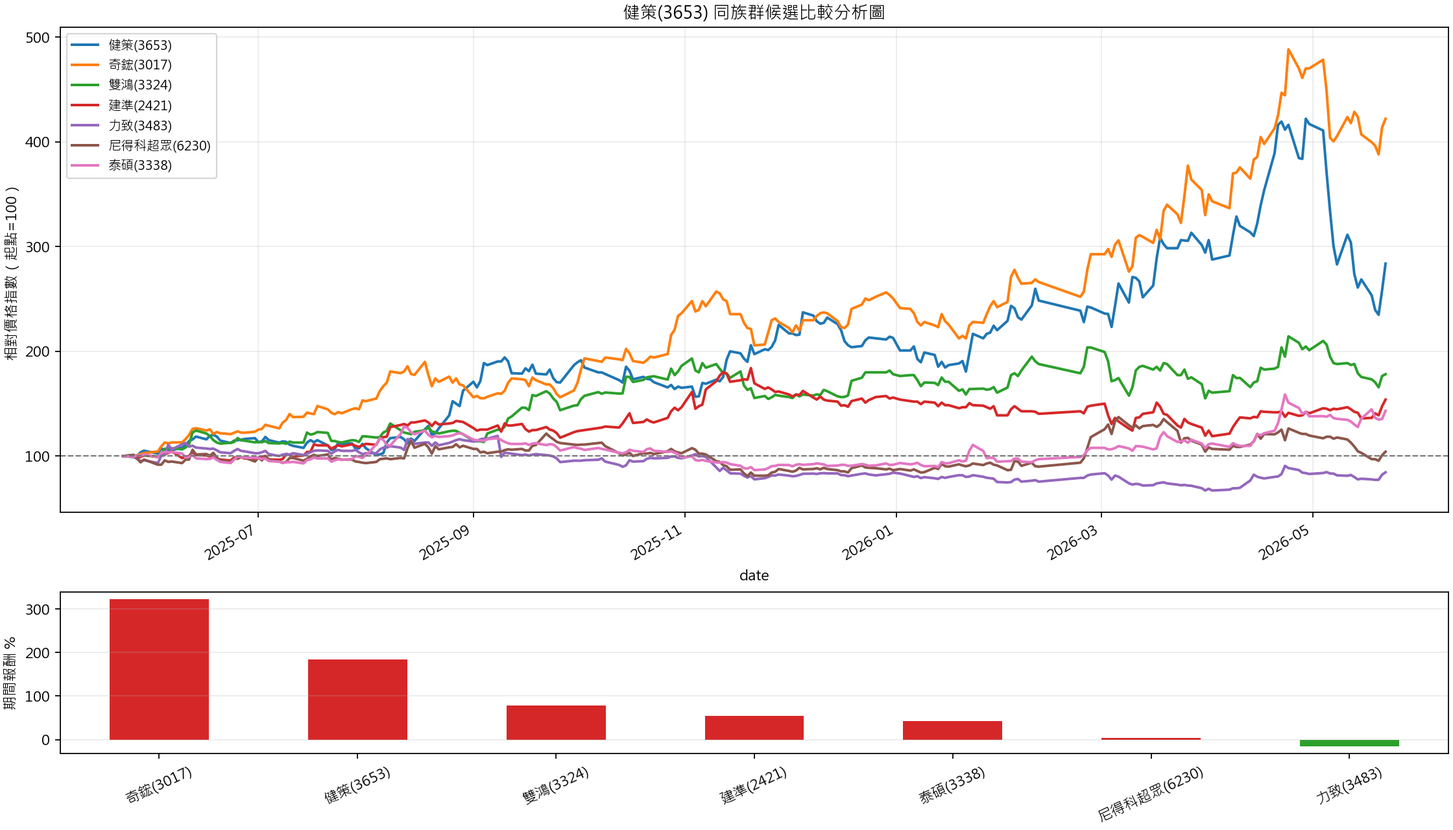
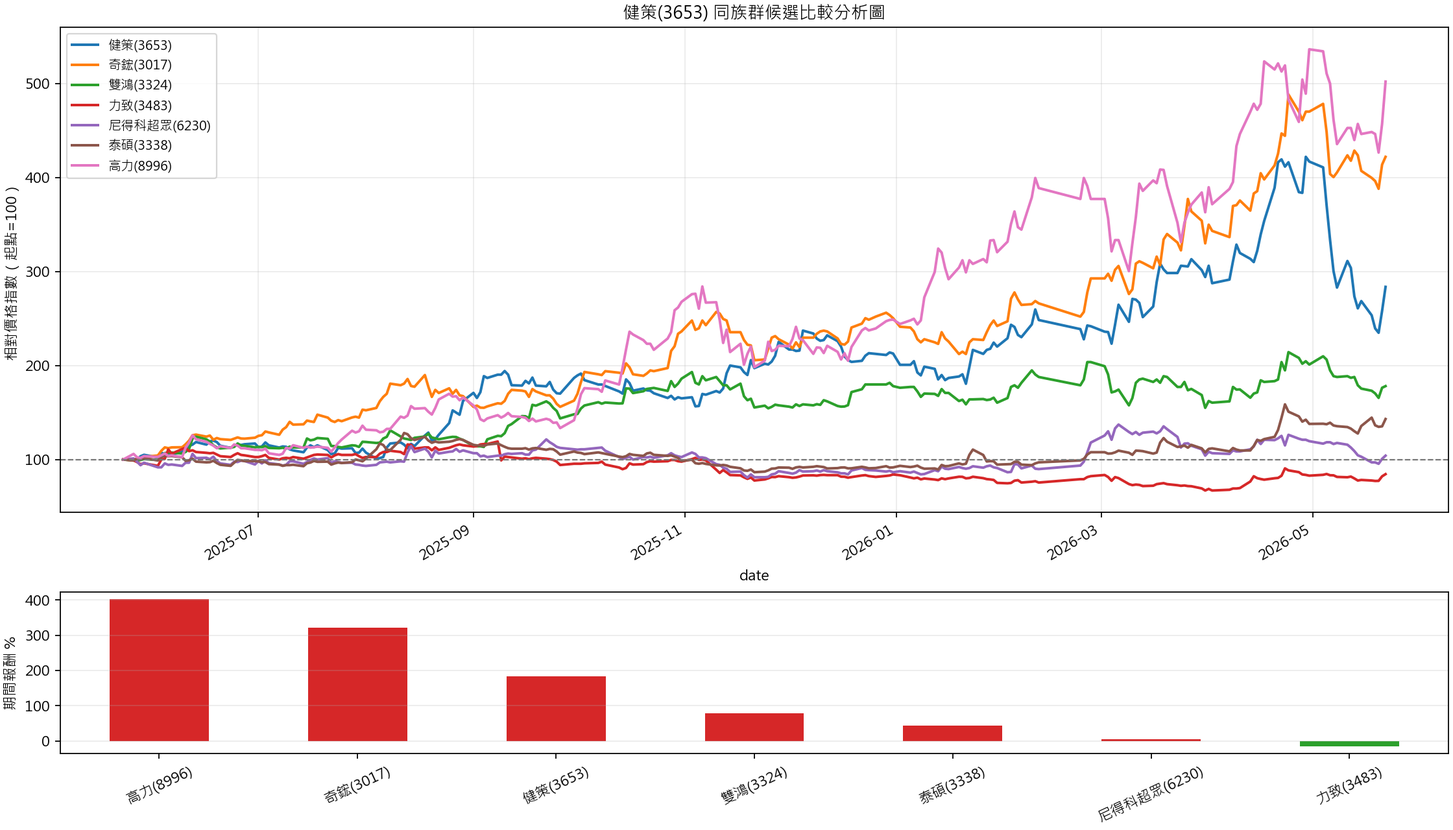
Publish stock report 3653_2026-05-23

diff --git a/3653_2026-05-23/index.html b/3653_2026-05-23/index.html
@@ -92,23 +92,16 @@
 <body>
   <header>
     <h1>健策(3653) 台股技術分析報告</h1>
-    <div>產生時間：2026-05-23T07:52:59+08:00</div>
+    <div>產生時間：2026-05-23T09:34:19+08:00</div>
   </header>
   <main>
     
     <section class="panel conclusion">
       <h2>結論摘要</h2>
       <div class="summary-grid"><div class="summary-card"><span>整體方向</span><strong>中性偏弱；收盤站上 MA5, MA5 低於 MA10, MA10 上方但投信支撐不足</strong></div>
-<div class="summary-card"><span>明日偏向</span><strong>偏多震盪</strong></div>
-<div class="summary-card"><span>一個月情境</span><strong>高波動區間震盪</strong></div>
-<div class="summary-card"><span>關鍵觀察</span><strong>價漲量縮；明日觀察 MA5 3276.00 / MA10 3467.50</strong></div>
+<div class="summary-card"><span>明日觀察</span><strong>價漲量縮；明日觀察 MA5 3276.00 / MA10 3467.50</strong></div>
 <div class="summary-card"><span>支撐</span><strong>第一 3276.00 / 第二 3467.50 / 強 4134.50</strong></div>
-<div class="summary-card"><span>壓力</span><strong>5575.00</strong></div>
-<div class="summary-card"><span>ATR 波動</span><strong>ATR14 349.64，常態區間 3310.36～4009.64</strong></div>
-<div class="summary-card"><span>權證籌碼</span><strong>認購成交占 97.45%，近價外認購 4 檔，前五大成交占 59.36%</strong></div>
-<div class="summary-card"><span>權證看股價</span><strong>現股距認購主流履約價仍有 20.81% 空間，屬高想像但投機風險也高</strong></div>
-<div class="summary-card"><span>權證白話</span><strong>權證人氣偏多但偏投機，只能輔助現股判斷；現股不續強時權證容易快速降溫</strong></div>
-<div class="summary-card"><span>最大風險</span><strong>跌破 MA10 3467.50 且放量，短線轉弱；跌破 MA20 4134.50 則整理擴大</strong></div></div>
+<div class="summary-card"><span>壓力</span><strong>5575.00</strong></div></div>
     </section>
     
     <section class="panel">
@@ -119,50 +112,52 @@
 <tr><th>最後交易日</th><td>2026-05-22</td></tr>
 <tr><th>有效交易日數</th><td>243</td></tr>
 <tr><th>圖表狀態</th><td>已產生 6 張圖表</td></tr>
-<tr><th>同族群比較</th><td>健策(3653)、奇鋐(3017)、雙鴻(3324)、建準(2421)、力致(3483)、尼得科超眾(6230)、泰碩(3338)</td></tr>
+<tr><th>同族群比較</th><td>健策(3653)、奇鋐(3017)、雙鴻(3324)、力致(3483)、尼得科超眾(6230)、泰碩(3338)、高力(8996)</td></tr>
 <tr><th>ETF 持股異動</th><td>持有快照 2026-05-22，未命中最新異動</td></tr>
+<tr><th>集保股權分散</th><td>20260515；大額 68.16% / 小額 6.87%</td></tr>
 <tr><th>權證資料</th><td>47 檔，認購 40 / 認售 7</td></tr>
-<tr><th>基本面資料</th><td>月營收與估值資料已取得</td></tr></table>
+<tr><th>基本面資料</th><td>月營收、估值與正式 EPS 已取得</td></tr></table>
     </section>
     <section class="panel analysis"><h2>零、整體評語 / 技術分析概念 / 明日走向</h2><ul><li>整體評語：目前整體評級為「中性偏弱」（分數 -2）。日線 偏多、周線 偏多、月線 偏空，三個週期若同向，訊號可信度較高；若互相矛盾，應以區間與量能確認為主。</li><li>技術分析概念：本報告以趨勢、位置、量能三個面向判讀。趨勢看均線排列（MA5 3276.00, MA10 3467.50, MA20 4134.50, MA60 3942.50），位置看近 20 / 60 日高低點，量能看今日成交量 638,947 是否高於近 20 日均量 1,420,755。</li><li>目前結構：價格低於主要均線，趨勢結構偏弱，反彈前需先觀察止跌量價。收盤位於近 20 日區間約 31% 位置，仍需觀察是否能脫離區間。量能低於近 20 日均量，代表市場仍偏觀望，突破或跌破訊號需等補量確認。</li><li>MA5 短線判斷：收盤站上 MA5，短線仍有撐盤力道。</li><li>MA10 / 投信支撐：收盤價站上 MA10（3467.50），但投信近 10 日買賣超 -261,617，表示價格雖守住短線均線，法人支撐不足，若跌破 MA10 需提高防守。</li><li>明日走向推估：基於 日漲跌為正, 收盤站上 MA5, 收盤站上 MA10, 收盤跌破 MA20，明日初步以「偏多震盪」看待；若開高並站穩 5575.00，有機會延續挑戰上方壓力；若開低或跌破 2800.00，短線需先防守轉弱。</li><li>觀察價位：短線支撐優先看 4134.50，壓力優先看 5575.00；明日若量能放大且收盤方向明確，會比盤中瞬間突破或跌破更具參考性。</li></ul></section>
-<section class="panel analysis"><h2>一、圖表重點解讀</h2><ul><li>整體評分為「中性偏弱」（分數 -2），主要依據：收盤站上 MA5、MA5 低於 MA10、收盤低於 MA20、收盤低於 MA60、MA20 高於 MA60、量能偏低。</li><li>資料最後交易日為 2026-05-22，最新收盤價 3660.00，單日漲跌幅 9.91%；一年區間 1265.00～5685.00，一年報酬 183.72%。</li><li>趨勢判讀：價格與 20 日、60 日均線交錯，趨勢仍偏整理。 目前 收盤價位於區間中段，短線方向仍需量價確認。</li><li>量價判讀：價漲量縮。價格上漲但量能不足，代表追價力道有限；若接近壓力區，需提防假突破。</li><li>短線均線判斷：收盤站上 MA10=3467.50，但 MA5=3276.00 仍低於 MA10，代表短線正在修復但均線尚未重新翻多。收盤價站上 MA10（3467.50），但投信近 10 日買賣超 -261,617，表示價格雖守住短線均線，法人支撐不足，若跌破 MA10 需提高防守。</li><li>短線風險 / 空間：距近 20 日低點約 30.71%，距近 20 日高點約 52.32%；量能為近 20 日均量 0.45 倍。</li><li>同族群相對表現：健策(3653) 期間報酬 183.72%，排名第 2/7；領先者為 奇鋐(3017) 322.06%。</li><li>操作解讀上，若價格突破壓力且量能續增，偏多情境較有延續性；若跌破短線支撐且放量，需優先控管風險。</li></ul></section>
-<section class="panel analysis"><h2>二、日週月趨勢與支撐壓力</h2><ul><li>日線短線：MA5=3276.00、MA10=3467.50；收盤站上 MA10=3467.50，但 MA5=3276.00 仍低於 MA10，代表短線正在修復但均線尚未重新翻多。</li><li>MA5下彎，近似變化 -2.03%。</li><li>MA10下彎，近似變化 -13.75%。</li><li>MA10 / 投信支撐：收盤價站上 MA10（3467.50），但投信近 10 日買賣超 -261,617，表示價格雖守住短線均線，法人支撐不足，若跌破 MA10 需提高防守。</li><li>日線中線：MA20=4134.50、MA60=3942.50；收盤價相對 20 日均線 偏弱或整理。</li><li>MA20下彎，近似變化 -10.10%。</li><li>MA60走平，近似變化 0.27%。</li><li>周線：最新周收 3660.00，較前一周 5.63%。</li><li>月線：最新月收 3660.00，較前一月 -31.97%。</li><li>第一支撐（5 日）：MA5 3276.00 / 近 5 日低點 2800.00；守住代表超短線買盤仍在，跌破則看第二支撐是否接手。</li><li>第二支撐（10 日）：MA10 3467.50 / 近 10 日低點 2800.00；收盤價站上 MA10（3467.50），但投信近 10 日買賣超 -261,617，表示價格雖守住短線均線，法人支撐不足，若跌破 MA10 需提高防守。</li><li>強支撐（20 日）：MA20 4134.50 / 近 20 日低點 2800.00；若跌破 MA20 且量增，短線整理容易擴大。</li><li>中線支撐（60 日）：近 60 日低點 2800.00。</li><li>短線壓力觀察近 20 日高點 5575.00，中線壓力觀察近 60 日高點 5685.00。</li><li>若收盤有效突破 5575.00，短線結構轉強；若跌破 2800.00，短線需防守轉弱。</li></ul></section>
-<section class="panel analysis"><h2>九、短線 / 中線與進出場情境</h2><ul><li>明日短線先看 MA5 3276.00 與 MA10 3467.50：站穩 MA5 且投信近 5 / 10 日維持買超，偏多延續性較高；跌破 MA10 且投信轉賣，短線需先防守。</li><li>短線若站穩 5575.00，可視為挑戰近 20 日壓力；若跌破 2800.00，需留意轉弱。</li><li>中線若守住 2800.00，區間結構仍相對完整；若跌破，需重新評估趨勢。</li><li>若價格持續位於 MA20 與 MA60 之上且量能維持大於均量，偏多情境可信度提高；反之若跌破均線且量增，需防守風險。</li><li>突破追價情境：若收盤有效突破近 20 日高點 5575.00，且量能高於 20 日均量，偏向趨勢延伸；失效點觀察是否跌回 MA5 3276.00 下方。</li><li>拉回承接情境：若回測 MA10 / MA20 區間約 3467.50～4134.50 並量縮守住，代表拉回較像整理；若投信同步買超，支撐可信度提高。</li><li>跌破停損情境：若放量跌破 2800.00 或近 20 日低點 2800.00，短線結構轉弱，應優先降低偏多情境權重。</li><li>波動提醒：ATR14 約 349.64；若盤中波動超過 1 倍 ATR 且收盤未收回關鍵均線，代表風險升高。</li></ul></section>
-<section class="panel analysis"><h2>十二、風險提醒</h2><ul><li>本分析不構成投資建議；技術分析、籌碼估算、權證、同族群、基本面與未來情境推估皆可能失準。</li><li>權證屬高槓桿商品，可能快速損失；預測不代表價格保證。</li></ul></section>
+<section class="panel analysis"><h2>一、圖表重點解讀</h2><ul><li>整體評分為「中性偏弱」（分數 -2），主要依據：收盤站上 MA5、MA5 低於 MA10、收盤低於 MA20、收盤低於 MA60、MA20 高於 MA60、量能偏低。</li><li>資料最後交易日為 2026-05-22，最新收盤價 3660.00，單日漲跌幅 9.91%；一年區間 1265.00～5685.00，一年報酬 183.72%。</li><li>趨勢判讀：價格與 20 日、60 日均線交錯，趨勢仍偏整理。 目前 收盤價位於區間中段，短線方向仍需量價確認。</li><li>量價判讀：價漲量縮。價格上漲但量能不足，代表追價力道有限；若接近壓力區，需提防假突破。</li><li>短線均線判斷：收盤站上 MA10=3467.50，但 MA5=3276.00 仍低於 MA10，代表短線正在修復但均線尚未重新翻多。收盤價站上 MA10（3467.50），但投信近 10 日買賣超 -261,617，表示價格雖守住短線均線，法人支撐不足，若跌破 MA10 需提高防守。</li><li>短線風險 / 空間：距近 20 日低點約 30.71%，距近 20 日高點約 52.32%；量能為近 20 日均量 0.45 倍。</li><li>同族群題材判斷：健策(3653) 期間報酬 183.72%，排名第 3/7，屬於位於族群中段；族群同步偏強（上漲 6/7 檔），領先者為 高力(8996) 402.15%。股價較依賴個股量價與法人籌碼，需等待族群擴散或本股重新轉強。</li><li>操作解讀上，若價格突破壓力且量能續增，偏多情境較有延續性；若跌破短線支撐且放量，需優先控管風險。</li></ul></section>
+<section class="panel analysis"><h2>二、日週月趨勢與支撐壓力</h2><ul><li>日線：MA5 3276.00、MA10 3467.50、MA20 4134.50；收盤站上 MA10=3467.50，但 MA5=3276.00 仍低於 MA10，代表短線正在修復但均線尚未重新翻多。</li><li>周線 / 月線：周收 3660.00（5.63%），月收 3660.00（-31.97%）。</li><li>支撐：第一 MA5 3276.00 / 近 5 日低點 2800.00；第二 MA10 3467.50；強支撐 MA20 4134.50 / 近 20 日低點 2800.00。</li><li>壓力：短線看近 20 日高點 5575.00，中線看近 60 日高點 5685.00。</li><li>簡化判斷：突破 5575.00 且補量，偏多延續；跌破 2800.00 或 MA20，先轉防守。</li></ul></section>
+<section class="panel analysis"><h2>三、圖表閱讀順序</h2><ul><li>先看 01 日線：確認短線方向、成交量與支撐壓力。</li><li>再看 02 周線與 03 月線：確認這波是短線反彈、波段趨勢，還是長期壓力區。</li><li>最後看權證、同族群、基本面與集保：只作輔助確認，不單獨決定操作。</li></ul></section>
+<section class="panel analysis"><h2>九、短線 / 中線與進出場情境</h2><ul><li>突破情境：收盤突破 5575.00 且量能高於 20 日均量，偏多延續；跌回 MA5 3276.00 下方則降權重。</li><li>拉回情境：回測 MA10 3467.50 或 MA20 4134.50 量縮守住，才視為健康整理。</li><li>防守情境：放量跌破 MA20 4134.50 或近 20 日低點 2800.00，短線先轉防守。</li><li>波動參考：ATR14 約 349.64，明日常態波動區間約 3310.36～4009.64。</li></ul></section>
+<section class="panel analysis"><h2>九之一、股性與操作方式</h2><ul><li>股性判斷：高波動題材股，ATR 約占股價 9.55%。適合用短線或快波段框架，部位應分批，停損要比一般股票更明確。</li><li>偏防守：股價低於 MA20，先以反彈看待，除非重新站回 MA20 並補量，否則不宜把短線反彈直接視為趨勢翻多。</li><li>量能策略：目前量能偏低，突破可信度不足，較適合等補量或回測支撐量縮。</li><li>籌碼策略：收盤價站上 MA10（3467.50），但投信近 10 日買賣超 -261,617，表示價格雖守住短線均線，法人支撐不足，若跌破 MA10 需提高防守。 近 5 日融資減少 8.78%，籌碼壓力下降，但仍需確認買盤接續。</li><li>權證輔助：權證未提供明顯單邊支持，操作仍以現股量價與支撐壓力為主。</li><li>參考操作框架：上方以近 20 日高點 5575.00 作為突破確認，下方以 MA10 3467.50、MA20 4134.50 與近 20 日低點 2800.00 分層控管。此為條件式交易計畫，不是保證買賣訊號。</li></ul></section>
     
         <section class="panel chart-panel">
           <h2>01_日線完整技術與籌碼分析圖</h2>
-          <img src="01_日線完整技術與籌碼分析圖.png?v=2026-05-23T07:52:59+08:00" alt="01_日線完整技術與籌碼分析圖">
+          <img src="01_日線完整技術與籌碼分析圖.png?v=2026-05-23T09:34:19+08:00" alt="01_日線完整技術與籌碼分析圖">
         </section>
         
 
         <section class="panel chart-panel">
           <h2>02_周線完整技術與趨勢分析圖</h2>
-          <img src="02_周線完整技術與趨勢分析圖.png?v=2026-05-23T07:52:59+08:00" alt="02_周線完整技術與趨勢分析圖">
+          <img src="02_周線完整技術與趨勢分析圖.png?v=2026-05-23T09:34:19+08:00" alt="02_周線完整技術與趨勢分析圖">
         </section>
         
 
         <section class="panel chart-panel">
           <h2>03_月線完整技術與長期趨勢分析圖</h2>
-          <img src="03_月線完整技術與長期趨勢分析圖.png?v=2026-05-23T07:52:59+08:00" alt="03_月線完整技術與長期趨勢分析圖">
+          <img src="03_月線完整技術與長期趨勢分析圖.png?v=2026-05-23T09:34:19+08:00" alt="03_月線完整技術與長期趨勢分析圖">
         </section>
         
 
         <section class="panel chart-panel">
           <h2>04_權證完整分析圖</h2>
-          <img src="04_權證完整分析圖.png?v=2026-05-23T07:52:59+08:00" alt="04_權證完整分析圖">
+          <img src="04_權證完整分析圖.png?v=2026-05-23T09:34:19+08:00" alt="04_權證完整分析圖">
         </section>
         
 
         <section class="panel chart-panel">
           <h2>05_同族群比較分析圖</h2>
-          <img src="05_同族群比較分析圖.png?v=2026-05-23T07:52:59+08:00" alt="05_同族群比較分析圖">
+          <img src="05_同族群比較分析圖.png?v=2026-05-23T09:34:19+08:00" alt="05_同族群比較分析圖">
         </section>
         
 
         <section class="panel chart-panel">
           <h2>06_基本面分析圖</h2>
-          <img src="06_基本面分析圖.png?v=2026-05-23T07:52:59+08:00" alt="06_基本面分析圖">
+          <img src="06_基本面分析圖.png?v=2026-05-23T09:34:19+08:00" alt="06_基本面分析圖">
         </section>
         
     <section class="panel">
@@ -190,13 +185,13 @@
 
     <details class="panel detail-panel">
       <summary>六、權證與市場情緒</summary>
-      <div class="detail-body"><ul><li>權證定位：以下只作為現股技術面與短線情緒的輔助判斷；現股漲跌仍以 K 線趨勢、支撐壓力、量能與法人 / 融資融券為主。</li><li>權證資料期間 / 出表日：TWSE report_date=1150522。</li><li>本次匹配權證 47 檔；認購 40 檔、認售 7 檔，認購/認售檔數比 5.71。</li><li>履約價分布 900.00～5120.00，中位數 3916.88；標的最新收盤 3660.00。</li><li>價內 / 近價外結構：認購價內 15 檔、認購 10% 內價外 4 檔；認售價內 0 檔、認售 10% 內價外 0 檔。</li><li>成交金額合計 6,842,720，其中認購 6,668,040（97.45%）、認售 174,680（2.55%）；認購成交較集中，前 5 大成交占比 59.36%。</li><li>權證名詞說明：價內代表履約價已對買方有利，通常較接近現股價格變動；近價外代表履約價離現股不遠，若現股再往有利方向走，權證敏感度容易提高；深價外代表履約價離現股很遠，價格便宜但成功機率較低，時間價值流失也更快。</li><li>履約價熱區：認購成交加權履約價約 4421.79，較現股高約 20.81%；認售成交加權履約價約 2751.90，現股較其高約 33.00%。認購成交中，近價外 10% 內占 9.95%，深價外認購占 84.40%。</li><li>以權證角度看目前股價：目前股價 3660.00 距離認購成交加權履約價 4421.79 還有 20.81% 空間，代表權證市場仍在押較大的上攻想像；但若現股沒有快速補漲，深價外認購的時間價值壓力會增加。</li><li>權證籌碼分型：本次屬於「偏多但投機」。近價外認購成交金額 663,680，深價外認購成交金額 5,628,090，近價外認售成交金額 0，深價外認售成交金額 174,680。深價外認購比重偏高，代表市場想像空間大，但也表示若現股漲幅不夠快，時間價值會明顯消耗。</li><li>資金集中度：前 5 大權證成交占 59.36%。成交集中度偏高，短線情緒可能由少數熱門權證帶動，容易放大波動。</li><li>輔助結論：認購成交很熱，但深價外認購占比較高，表示市場有追逐大波動的投機資金。它可以反映人氣升溫，但對現股漲跌的確認力低於近價外認購。</li><li>白話解讀：很多人在買認購，可是有不少買得很遠，這比較像押快速大漲；如果現股沒有繼續強，這些權證容易先降溫。簡單說，權證是在看市場有沒有跟著股票一起熱起來；它可以加分或扣分，但不能單獨決定股價方向。</li><li>未來一個月輔助推估：現股技術面初步為「高波動區間震盪」，權證籌碼只作為輔助。若價格維持在 MA20 / MA60 之上、量能不縮，且認購成交沒有明顯退潮，偏多情境較容易延續；若現股跌破支撐，即使認購仍熱，也要先降低權證訊號權重。</li><li>一個月觀察區間：上方先看 5575.00，再看近 60 日高點 5685.00；下方先看 4134.50，再看近 20 日低點 2800.00。突破近 20 日高點 5575.00 可視為偏多確認；跌破近 20 日低點 2800.00 則偏多情境失效；MA20 4134.50 是短中線強弱分界。</li><li>權證操作提醒：若買認購，優先關注接近現股、成交量穩定、到期日不過近的標的；深價外權證即使價格便宜，也容易因時間價值流失而快速歸零。若現股跌破支撐，權證部位應比現股更快控管風險。</li></ul></div>
+      <div class="detail-body"><ul><li>權證定位：本段只用權證資料觀察現股人氣與未來漲勢機率，不作權證買賣建議。</li><li>權證資料期間 / 出表日：TWSE report_date=1150522。</li><li>本次匹配權證 47 檔；認購 40 檔、認售 7 檔，認購/認售檔數比 5.71。</li><li>履約價分布 900.00～5120.00，中位數 3916.88；標的最新收盤 3660.00。</li><li>價內 / 近價外結構：認購價內 15 檔、認購 10% 內價外 4 檔；認售價內 0 檔、認售 10% 內價外 0 檔。</li><li>成交金額合計 6,842,720，其中認購 6,668,040（97.45%）、認售 174,680（2.55%）；認購成交較集中，前 5 大成交占比 59.36%。</li><li>權證名詞說明：近價外認購代表市場押注區離現股不遠，對現股續漲的參考性通常高於深價外；深價外認購代表想像空間大，但確認力較弱。</li><li>履約價熱區：認購成交加權履約價約 4421.79，較現股高約 20.81%；認售成交加權履約價約 2751.90，現股較其高約 33.00%。認購成交中，近價外 10% 內占 9.95%，深價外認購占 84.40%。</li><li>以權證角度看目前股價：目前股價 3660.00 距離認購成交加權履約價 4421.79 還有 20.81% 空間，代表權證市場仍在押較大的上攻想像；但若現股沒有快速補漲，深價外認購的時間價值壓力會增加。</li><li>權證情緒分型：本次屬於「偏多但投機」。近價外認購成交金額 663,680，深價外認購成交金額 5,628,090，近價外認售成交金額 0，深價外認售成交金額 174,680。深價外認購比重偏高，代表市場想像空間大，但對現股方向的確認力較弱。</li><li>資金集中度：前 5 大權證成交占 59.36%。成交集中度偏高，短線情緒可能由少數熱門權證帶動，容易放大波動。</li><li>輔助結論：認購成交很熱，但深價外認購占比較高，表示市場有追逐大波動的投機資金。它可以反映人氣升溫，但對現股漲跌的確認力低於近價外認購。</li><li>白話解讀：權證市場偏向押快速上漲，但有一部分離現股較遠；如果現股沒有繼續強，這個熱度容易先退。簡單說，權證是在看市場有沒有跟著股票一起熱起來；它可以加分或扣分，但不能單獨決定股價方向。</li><li>未來一個月現股輔助推估：現股技術面初步為「高波動區間震盪」。若價格維持在 MA20 / MA60 之上、量能不縮，且認購成交沒有明顯退潮，偏多情境較容易延續；若現股跌破支撐，即使認購仍熱，也要先降低權證訊號權重。</li><li>一個月觀察區間：上方先看 5575.00，再看近 60 日高點 5685.00；下方先看 4134.50，再看近 20 日低點 2800.00。突破近 20 日高點 5575.00 可視為偏多確認；跌破近 20 日低點 2800.00 則偏多情境失效；MA20 4134.50 是短中線強弱分界。</li><li>現股判斷用法：近價外認購有量、認售沒有明顯放大、且現股同步站穩均線時，權證資料可視為現股續漲的加分項；若權證很熱但現股不漲，則視為人氣過熱而非追價確認。</li></ul></div>
     </details>
     
 
     <details class="panel detail-panel">
       <summary>七、同族群比較</summary>
-      <div class="detail-body"><ul><li>比較依據：主題規則：散熱與熱管理</li><li>比較清單：健策(3653)、奇鋐(3017)、雙鴻(3324)、建準(2421)、力致(3483)、尼得科超眾(6230)、泰碩(3338)</li><li>同期間相對報酬排序：奇鋐(3017) 322.06%、健策(3653) 183.72%、雙鴻(3324) 78.13%、建準(2421) 53.88%、泰碩(3338) 43.12%、尼得科超眾(6230) 4.14%</li><li>此圖標示為同產業候選比較，不等同精準子產業或主題族群。</li></ul></div>
+      <div class="detail-body"><ul><li>比較依據：精準子群組：散熱與熱管理 / AI散熱模組 / 熱管理（高：同主題且同產品/商業模式子群組）</li><li>比較清單：健策(3653)、奇鋐(3017)、雙鴻(3324)、力致(3483)、尼得科超眾(6230)、泰碩(3338)、高力(8996)</li><li>同期間相對報酬排序：高力(8996) 402.15%、奇鋐(3017) 322.06%、健策(3653) 183.72%、雙鴻(3324) 78.13%、泰碩(3338) 43.12%、尼得科超眾(6230) 4.14%</li><li>此圖為精準子群組比較，但仍應確認各公司產品比重與客戶結構差異。</li></ul></div>
     </details>
     
 
@@ -207,8 +202,14 @@
     
 
     <details class="panel detail-panel">
+      <summary>七之二、集保股權分散資訊</summary>
+      <div class="detail-body"><ul><li>資料來源：TDCC OpenAPI /v1/opendata/1-5 集保戶股權分散表；資料日期 20260515。</li><li>集保戶數合計 63,947 人，集保股數合計 146,732,803 股。</li><li>小額持股（1～10,000 股）占 6.87%；中階持股（50,001～400,000 股）占 17.84%；大額持股（400,001 股以上）占 68.16%，其中百萬股以上占 57.53%。</li><li>集保結構判斷：大額持股集中度中等。籌碼結構不算分散，仍需搭配法人、融資與量價確認是否有人持續承接。</li><li>散戶化觀察：小額持股占比不高，籌碼相對不分散。</li><li>限制：TDCC 集保資料通常是每週最後營業日結束後的持股級距統計，能看籌碼集中或分散，但不能知道是哪位自然人或哪家主力在買賣。</li></ul></div>
+    </details>
+    
+
+    <details class="panel detail-panel">
       <summary>八、基本面 EPS / 月營收</summary>
-      <div class="detail-body"><ul><li>基本面資料期間：revenue 2023-12-01 to 2026-05-01; PER/PBR 2025-05-23 to 2026-05-22。</li><li>最新月營收 2026-04 為 23.11 億元，MoM 6.82%，YoY 26.92%。</li><li>近 3 個月營收 57.43 億元，較前 3 個月 5.49%。</li><li>最新估值：PER 101.24、PBR 25.35、殖利率 0.60%，以收盤價/PER 推估 EPS 約 36.15。</li></ul></div>
+      <div class="detail-body"><ul><li>基本面資料期間：revenue 2023-12-01 to 2026-05-01; PER/PBR 2025-05-23 to 2026-05-22; EPS 2021-06-30 to 2026-03-31。</li><li>最新月營收 2026-04 為 23.11 億元，MoM 6.82%，YoY 26.92%。</li><li>近 3 個月營收 57.43 億元，較前 3 個月 5.49%。</li><li>最新估值：PER 101.24、PBR 25.35、殖利率 0.60%。</li><li>正式 EPS：最新 2026Q1 基本每股盈餘 9.53 元，較去年同期 -0.63%。</li><li>是否支持股價：支持度中性。理由：近 3 個月營收動能改善、最新月營收年增雙位數、PER 位階偏高，股價需要成長性支撐、正式 EPS 年減。</li></ul></div>
     </details>
     
 
@@ -247,6 +248,43 @@
     
 
     <details class="panel detail-panel">
+      <summary>集保戶股權分散表格</summary>
+      <div class="detail-body">
+      <div class="table-scroll">
+        <table>
+          <thead>
+            <tr>
+              <th>級距</th>
+              <th>持股分級</th>
+              <th>人數</th>
+              <th>股數</th>
+              <th>占集保庫存比例</th>
+            </tr>
+          </thead>
+          <tbody><tr><td>1</td><td>1-999 股</td><td class="cell-number">59,843</td><td class="cell-number">2,673,217</td><td class="cell-number">1.82%</td></tr>
+<tr><td>2</td><td>1,000-5,000 股</td><td class="cell-number">3,131</td><td class="cell-number">5,349,601</td><td class="cell-number">3.64%</td></tr>
+<tr><td>3</td><td>5,001-10,000 股</td><td class="cell-number">284</td><td class="cell-number">2,081,520</td><td class="cell-number">1.41%</td></tr>
+<tr><td>4</td><td>10,001-15,000 股</td><td class="cell-number">148</td><td class="cell-number">1,883,361</td><td class="cell-number">1.28%</td></tr>
+<tr><td>5</td><td>15,001-20,000 股</td><td class="cell-number">99</td><td class="cell-number">1,763,084</td><td class="cell-number">1.20%</td></tr>
+<tr><td>6</td><td>20,001-30,000 股</td><td class="cell-number">94</td><td class="cell-number">2,351,281</td><td class="cell-number">1.60%</td></tr>
+<tr><td>7</td><td>30,001-40,000 股</td><td class="cell-number">69</td><td class="cell-number">2,389,875</td><td class="cell-number">1.62%</td></tr>
+<tr><td>8</td><td>40,001-50,000 股</td><td class="cell-number">44</td><td class="cell-number">1,995,398</td><td class="cell-number">1.35%</td></tr>
+<tr><td>9</td><td>50,001-100,000 股</td><td class="cell-number">91</td><td class="cell-number">6,487,432</td><td class="cell-number">4.42%</td></tr>
+<tr><td>10</td><td>100,001-200,000 股</td><td class="cell-number">68</td><td class="cell-number">9,868,441</td><td class="cell-number">6.72%</td></tr>
+<tr><td>11</td><td>200,001-400,000 股</td><td class="cell-number">33</td><td class="cell-number">9,842,109</td><td class="cell-number">6.70%</td></tr>
+<tr><td>12</td><td>400,001-600,000 股</td><td class="cell-number">14</td><td class="cell-number">6,787,501</td><td class="cell-number">4.62%</td></tr>
+<tr><td>13</td><td>600,001-800,000 股</td><td class="cell-number">5</td><td class="cell-number">3,356,687</td><td class="cell-number">2.28%</td></tr>
+<tr><td>14</td><td>800,001-1,000,000 股</td><td class="cell-number">6</td><td class="cell-number">5,474,406</td><td class="cell-number">3.73%</td></tr>
+<tr><td>15</td><td>1,000,001 股以上</td><td class="cell-number">18</td><td class="cell-number">84,428,890</td><td class="cell-number">57.53%</td></tr>
+<tr><td>16</td><td>差異或調整數</td><td class="cell-number">0</td><td class="cell-number">0</td><td class="cell-number">0.00%</td></tr>
+<tr><td>17</td><td>合計</td><td class="cell-number">63,947</td><td class="cell-number">146,732,803</td><td class="cell-number">100.00%</td></tr></tbody>
+        </table>
+      </div>
+    </div>
+    </details>
+    
+
+    <details class="panel detail-panel">
       <summary>權證成交金額前 5 名表格</summary>
       <div class="detail-body">
       <div class="table-scroll">
@@ -271,11 +309,6 @@
     </div>
     </details>
     
-    <section class="panel notice">
-      <strong>風險提醒：</strong>
-      本分析不構成投資建議；技術分析、籌碼估算、權證、同族群、基本面與未來情境推估皆可能失準；
-      權證屬高槓桿商品，可能快速損失；預測不代表價格保證。
-    </section>
   </main>
 </body>
 </html>
